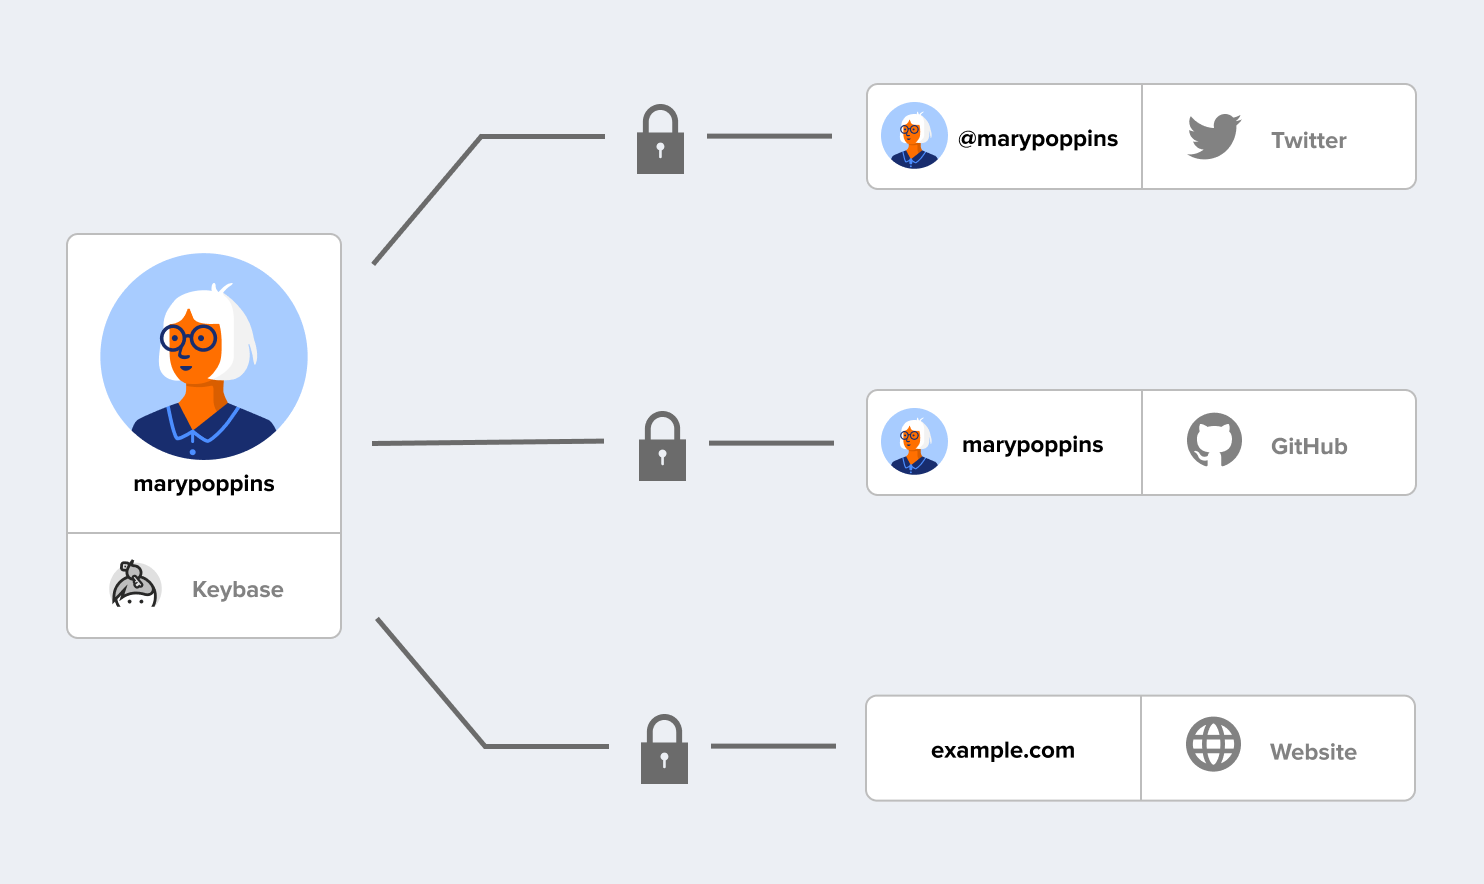
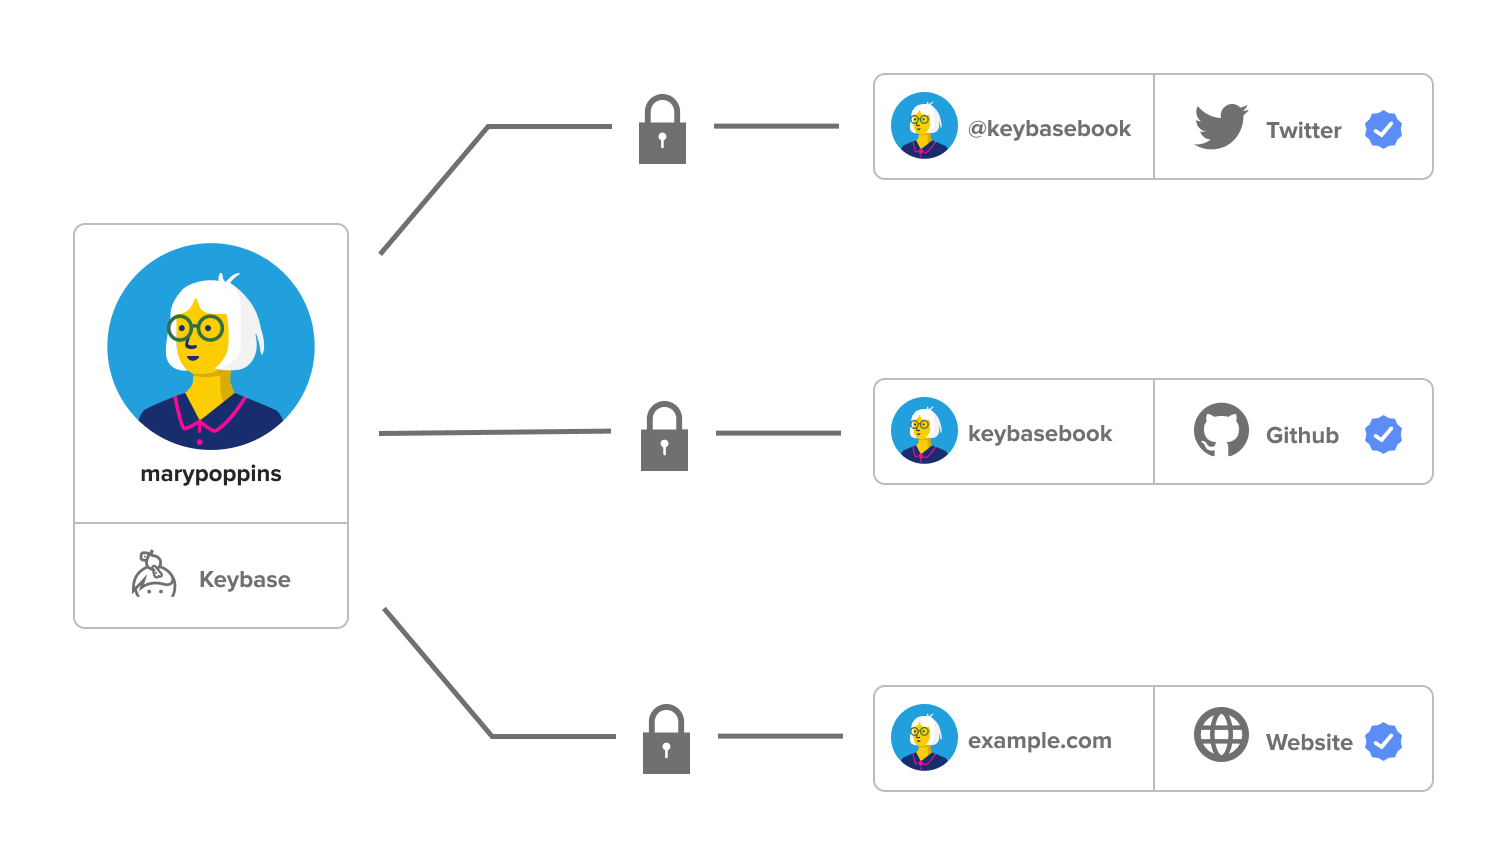
Adding new and updated diagrams

diff --git a/01-account/00-index.md b/01-account/00-index.md
@@ -2,24 +2,26 @@
 {% set section_subtitle = "Keybase accounts are trustworthy and secure. Learn how." %}
 
 # Your Keybase Account
-TL;DR Public-key cryptography makes your Keybase account trustworthy and secure. Installing Keybase on your computer or device, adding more devices and paper keys, adding proofs, and following all make your Keybase account more trustworthy and secure. 
+TL;DR Public-key cryptography makes your Keybase account trustworthy and secure. Installing Keybase on your computer or device, adding more devices and paper keys, adding proofs, and following all make your Keybase account more trustworthy and secure.
 
-Your Keybase account and everything you store or share through it in [Chat](/chat), [Files](files), [Teams](/teams), [Sites](/sites), [Wallet](/wallet), and [Git](/git) are all protected by encryption. 
+Your Keybase account and everything you store or share through it in [Chat](/chat), [Files](files), [Teams](/teams), [Sites](/sites), [Wallet](/wallet), and [Git](/git) are all protected by encryption.
 
-When you create your Keybase account, it’s linked to your [devices](account/devices). You further protect your account with [proofs](account/proofs) and [following](account/following). All of these actions are backed by public-key cryptography. 
+When you create your Keybase account, it’s linked to your [devices](account/devices). You further protect your account with [proofs](account/proofs) and [following](account/following). All of these actions are backed by public-key cryptography.
 
 You can learn more about how public-key cryptography works in [Security](/security).
 
-The gist is that your contacts can be sure your Keybase account belongs to you and that only you can access it. No phishing, spoofing, or scamming around here. 
+The gist is that your contacts can be sure your Keybase account belongs to you and that only you can access it. No phishing, spoofing, or scamming around here.
 
 #### Devices, proofs, and following help make your Keybase account trustworthy and secure.
-Lots of other apps only require a username and password to create and protect an account. Your username theoretically lets others know that an account belongs to you. And your password theoretically allows only you to access it. 
+Lots of other apps only require a username and password to create and protect an account. Your username theoretically lets others know that an account belongs to you. And your password theoretically allows only you to access it.
 
 But with just a username and password, accounts can be hacked, phished, and otherwise compromised. They’re not totally trustworthy and secure. In best-case scenarios, you can use two-factor authentication for more security but it’s still not perfect.
 
-Your contacts can trust your Keybase account because, instead of being protected by just a password, it’s cryptographically linked to your [devices](account/devices). Your account can only be accessed through your devices. So long as only you have access to your devices, only you can access your account. 
+![](/img/account-passwordsvskb.png)
 
-You do create a username to help let others know an account belongs to you. But you further confirm who you are with  [proofs](account/proofs), which link your Keybase account to your other online accounts. 
+Your contacts can trust your Keybase account because, instead of being protected by just a password, it’s cryptographically linked to your [devices](account/devices). Your account can only be accessed through your devices. So long as only you have access to your devices, only you can access your account.
+
+You do create a username to help let others know an account belongs to you. But you further confirm who you are with  [proofs](account/proofs), which link your Keybase account to your other online accounts.
 
 [Following](account/following) provides a public record that also confirms that you are who you say you are. Proofs and following are both public actions. And, as the name “proof” implies, these actions are also provable. Your contacts don’t have to trust that you’re you just because you say you are; they can see for themselves.
 
@@ -28,13 +30,13 @@ Anyone can check your proofs; Keybase regularly does as well. If anything change
 ## Usernames
 Tip: Before you create your account, give your username some thought. Everyone on the internet can see it.
 
-#### Your username is public and can’t be changed. 
-Choosing your username is the first action of many that you’ll take to help establish [your account](/account) on Keybase. These actions are part of a public record that helps secure your account and confirm that you are who you say you are. Changing your username has the potential to undo this. 
+#### Your username is public and can’t be changed.
+Choosing your username is the first action of many that you’ll take to help establish [your account](/account) on Keybase. These actions are part of a public record that helps secure your account and confirm that you are who you say you are. Changing your username has the potential to undo this.
 
 We know there are lots of reasons why people may need to change their usernames. And there are solutions we could implement to help people do so. But they’re complicated and, unfortunately, not something we can work on right now. In the meantime, you can learn more about this issue [on GitHub](https://github.com/keybase/keybase-issues/issues/2842#issuecomment-283706335).
 
 #### Usernames must be lowercase letters and numbers only, with no spaces.
-This format helps keep Keybase accounts secure because it makes it hard for tricksters to use visually similar names to impersonate people. 
+This format helps keep Keybase accounts secure because it makes it hard for tricksters to use visually similar names to impersonate people.
 
 For example, if uppercase letters were allowed someone could create the account Isteele (with a capital “i”) and pretend to be mlsteele (with a lowercase “L”). Spaces are not allowed for the same reason. The difference between “karen m” and “karen  m” is too subtle.
 
@@ -42,12 +44,12 @@ For example, if uppercase letters were allowed someone could create the account 
 If undeleting were allowed, it would be hard to be sure that the person undeleting is the same person who deleted the account. If you’ve gone to the trouble of deleting your account, we don’t want to give that username to anyone who asks for it.
 
 
-## Devices 
+## Devices
 TL;DR: You can think of your devices and paper keys as keys to your account. You can only access your account through your devices. Paper keys provide backup access to your account in case you lose your devices.
 
 Tip: Add multiple devices and paper keys to your account to ensure its security.
 
-When you create your Keybase account, Keybase creates a key pair for your account and the device—your phone or computer—that you sign up with. 
+When you create your Keybase account, Keybase creates a key pair for your account and the device—your phone or computer—that you sign up with.
 
 The public key is uploaded to Keybase’s servers and is publicly available. The private key lives only on your device. This means that no one else can access your account—or anything shared through it—without having your device (not even Keybase).
 
@@ -55,15 +57,15 @@ You can and should add more devices and paper keys to your account so you don’
 
 When you add a new device or paper key, your existing device vouches for the new one. All your devices and paper keys are cryptographically linked. And each additional device or paper key you add to your account also gets a key pair.  
 
-So, no one can compromise your account without having all of your devices and paper keys. This guarantees that only you have access to your account. 
+So, no one can compromise your account without having all of your devices and paper keys. This guarantees that only you have access to your account.
 
-### Adding devices 
-Install Keybase on your other devices so that you don’t lose access to your account if you lose access to a device. 
+### Adding devices
+Install Keybase on your other devices so that you don’t lose access to your account if you lose access to a device.
 
 #### Device names are public and can’t be changed.
-When you add a device, you’ll have to name it. Device names are visible to everyone on the internet and can’t be changed. Choose carefully. 
+When you add a device, you’ll have to name it. Device names are visible to everyone on the internet and can’t be changed. Choose carefully.
 
-Like your username, devices names are part of a public record that helps secure your account and confirm that you are who you say you are. Changing device names has the potential to undo this. 
+Like your username, devices names are part of a public record that helps secure your account and confirm that you are who you say you are. Changing device names has the potential to undo this.
 
 ![](/img/kb-one-device.png)
 
@@ -75,14 +77,14 @@ Like your username, devices names are part of a public record that helps secure 
 ![](/img/kb-two-devices.png)
 
 ### Revoking devices
-If you lose or replace a device, you should revoke it. Revoking removes the device from your account. 
+If you lose or replace a device, you should revoke it. Revoking removes the device from your account.
 
-Revoking lost or old devices helps ensure that only you can access your account. Your account cannot be accessed through revoked devices. 
+Revoking lost or old devices helps ensure that only you can access your account. Your account cannot be accessed through revoked devices.
 
-Revoked devices still publicly appear on your account but are marked as revoked. 
+Revoked devices still publicly appear on your account but are marked as revoked.
 
-### Adding paper keys 
-Add paper keys so that you can access your account even if (worst-case scenario) you lose all of your devices. 
+### Adding paper keys
+Add paper keys so that you can access your account even if (worst-case scenario) you lose all of your devices.
 
 ![](/img/kb-three-devices.png)
 
@@ -96,17 +98,20 @@ The best way to let others know that your Keybase account belongs to you is to t
 
 Proofs link your Keybase account to your other online accounts. Generally, proofs help people trust that you are really you on Keybase. Some people may already know you as you through your other accounts. But proofs are public so Keybase can (and does) check them, but importantly, anyone can. Publicly proving that you are who you say you are is an important part of what makes Keybase accounts so secure and trustworthy.
 
-If a proof is changed, indicating that your Keybase or other social accounts may have been compromised, Keybase will automatically warn the people you interact with. 
+If a proof is changed, indicating that your Keybase or other social accounts may have been compromised, Keybase will automatically warn the people you interact with.
 
 {#illo: Screenshot of proofs on Keybase overlaid with the proof (i.e. the tweet that the proof links to) #}
 
 ### Adding proofs
 You can add proofs for your personal website and social accounts on Twitter, GitHub, Reddit, and Hacker News. But your social accounts must be public for them to work as proofs.
 
-![](/img/kb-one-account.png)
-{# update this illo to 1: include a screenshot of Mary Poppins’s tweet to help indicate that the tweet itself must be public/visible/not deleted and 2: indicate that the tweet confirms the proof with something like a checkmark #}
+![](/img/kb-proof-twitter.png)
 
 For example, if you use your Twitter account as a proof, Keybase will give you a specific phrase to tweet that includes your Keybase username. For the proof to work, you must tweet the phrase exactly as Keybase gives it to you. The tweet must be public and you can’t delete it.
+
+![](/img/kb-proof-github.png)
+
+![](/img/kb-proof-website.png)
 
 Keeping proofs public lets Keybase—and anyone else—check them. Everyone can be sure that you are you.
 
@@ -116,35 +121,35 @@ Keeping proofs public lets Keybase—and anyone else—check them. Everyone can 
 ## Following
 TL;DR Following helps keep Keybase accounts secure. It allows you and those you interact with to be notified quickly if something on an account changes, indicating that it may be compromised and isn’t trustworthy.
 
-Tip: Follow people on Keybase to help make your account and theirs more trustworthy. 
- 
+Tip: Follow people on Keybase to help make your account and theirs more trustworthy.
+
 Following helps confirm that people are who they say they are on Keybase. But it doesn’t necessarily indicate a relationship. More importantly, following helps provide reassurance that accounts are trustworthy and secure.
 
 #### Follow people you interact with.
-You can and definitely should follow people you know and interact with on Keybase. But following helps keep accounts secure and trustworthy even if you don’t know someone you follow or someone who follows you. 
+You can and definitely should follow people you know and interact with on Keybase. But following helps keep accounts secure and trustworthy even if you don’t know someone you follow or someone who follows you.
 
-For example, let’s say you follow Mary Poppins on Keybase. You probably don’t know her and she probably doesn’t know you (if that’s not true, lucky you). By following her, you’re essentially documenting her Keybase account, including all her proofs and devices. This documentation is a time-stamped public record that can be checked by anyone else on Keybase. It’s also automatically checked by your computer or device every time you share messages or files with Ms. Poppins. And if anything about her account changes, you—and everyone else who follows her—will be notified when you attempt to interact with her on Keybase again. 
+For example, let’s say you follow Mary Poppins on Keybase. You probably don’t know her and she probably doesn’t know you (if that’s not true, lucky you). By following her, you’re essentially documenting her Keybase account, including all her proofs and devices. This documentation is a time-stamped public record that can be checked by anyone else on Keybase. It’s also automatically checked by your computer or device every time you share messages or files with Ms. Poppins. And if anything about her account changes, you—and everyone else who follows her—will be notified when you attempt to interact with her on Keybase again.
 
-#### More followers provide more security. 
-But if you don’t know Ms. Poppins, you might not interact with her and get notified that her account has changed. This is where safety in numbers kicks in. 
+#### More followers provide more security.
+But if you don’t know Ms. Poppins, you might not interact with her and get notified that her account has changed. This is where safety in numbers kicks in.
 
-The more followers Mary Poppins has, the more likely that *someone* will attempt to interact with her on Keybase, be notified about the change, and reach out to her over other channels. Then she can confirm that she made the change or recover her account if it’s been hacked. This helps gives both you and Ms. Poppins more confidence about the safety and trustworthiness of her account. 
+The more followers Mary Poppins has, the more likely that *someone* will attempt to interact with her on Keybase, be notified about the change, and reach out to her over other channels. Then she can confirm that she made the change or recover her account if it’s been hacked. This helps gives both you and Ms. Poppins more confidence about the safety and trustworthiness of her account.
 
-And even if no one’s interacting with Ms. Poppins on Keybase, you get some confidence knowing that for every follower she has, a public record of who she is (according to her devices and proofs) has been added to a giant, public Keybase database. 
-Someone might be able to fake one or even two of these records so they look the same, but it’d be virtually impossible to fake dozens or thousands. 
+And even if no one’s interacting with Ms. Poppins on Keybase, you get some confidence knowing that for every follower she has, a public record of who she is (according to her devices and proofs) has been added to a giant, public Keybase database.
+Someone might be able to fake one or even two of these records so they look the same, but it’d be virtually impossible to fake dozens or thousands.
 
 #### Older followers provide more security than newer ones.
 Along the same lines, the older a follower is, the more security it provides. Remember that following someone creates a time-stamped public record of who they are on Keybase (according to their proofs and devices). So, if you followed Ms. Poppins way back in February 2014, your record helps confirm that her account hasn’t been hacked over the years between now and then. If someone had hacked her account, they’d have to maintain control of her computer, other device(s), and proofs over that whole period of time.
 
 So, as long as someone’s account hasn’t been hacked the day you follow them (which would be kinda wild), you can be pretty confident they are who they say they are on Keybase. Likewise, your own followers help guarantee to your contacts—and better, to future contacts—that your Keybase account is controlled by you.
 
-#### Follow soon and follow often. 
+#### Follow soon and follow often.
 If you keep (ahem) *following* this logic, it’s easy to see that an older Keybase account is more secure and trustworthy than a newer Keybase account. And, older followers are more valuable than new followers. So, if you haven’t already, install the app, set up your account, and start following your contacts.
 
 This is a pretty simplified version of how following works. You can dig into more details in our [docs](https://keybase.io/docs/server_security/following) and on [Github](https://github.com/keybase/keybase-issues/issues/100). (Note: following was previously called tracking.)
 
 ### Blocking followers
-While even followers you don’t know help keep your account trustworthy, you can block them. 
+While even followers you don’t know help keep your account trustworthy, you can block them.
 
 When you block someone, you can remove them from your public list of followers. You won’t see them and their account will not be publicly associated with yours. They also won’t be able to chat with you or add you to a team.
 

diff --git a/04-teams/00-index.md b/04-teams/00-index.md
@@ -6,7 +6,7 @@ Use Teams to work, connect, organize. A team on Keybase is simply a group of peo
 
 Teams can [chat](/chat), use [files](/files), and [collaborate on Git](/Git).
 
-Like everything else on Keybase, your team chats, files, and Git are end-to-end encrypted. What you and your team share, store, and commit stays between you and your team. 
+Like everything else on Keybase, your team chats, files, and Git are end-to-end encrypted. What you and your team share, store, and commit stays between you and your team.
 
 Likewise, person-to-person interactions remain private. Team admins or owners can’t access individual chats between team members or any other interactions they’re not explicitly a part of. No snooping—anywhere, ever—on Keybase.
 
@@ -19,7 +19,7 @@ Before you create a team, there are a few things you should know:
 ### Adding and removing people
 You can create a team from scratch. Or if your team’s on Slack, you can [import it into Keybase](https://keybase.io/slack-importer/).
 
-Adding people by Keybase username is the quickest way to create a team. If you add people by their social handle, email, or phone numbers, they’ll need to create a Keybase account if they don’t already have one. 
+Adding people by Keybase username is the quickest way to create a team. If you add people by their social handle, email, or phone numbers, they’ll need to create a Keybase account if they don’t already have one.
 
 As you add people to a team, they’re announced in the team chat. All new team members can search and read the entire team chat history, except for exploding messages sent before they joined.
 
@@ -28,45 +28,7 @@ If you remove a team member, they lose access to all team chats and folders. Rem
 #### Roles and permissions
 When you add someone to a team, you’ll assign them a role that gives them specific permissions. In most cases, most people should be writers, unless you’re managing a community. Then, you might want your team members to be readers. You can always change roles later.
 
-**Owners:**
-* Can create chat channels
-* Can create subteams
-* Can add and remove team members
-* Can manage team members’ roles
-* Can write and read chat messages 
-* Can view, edit, and save files
-* Can delete team
-* Can add bots
-
-**Admins:**
-* Can create chat channels
-* Can create subteams
-* Can add and remove members
-* Can manage team members’ roles
-* Can write and read chat messages
-* Can view, edit, and save files
-* *Cannot* delete the team
-* Can add bots
-
-**Writers:**
-* Can write and read chat messages
-* Can view, edit, and save files
-* Can create chat channels
-* *Cannot* create subteams
-* *Cannot* add and remove members
-* *Cannot* manage team members’ roles
-* *Cannot* delete the team
-* *Cannot* add bots
-
-**Readers:**
-* Can write and read chat messages
-* Can only view files
-* *Cannot* create chat channels
-* *Cannot* create subteams
-* *Cannot* add and remove members
-* *Cannot* manage team members’ roles
-* *Cannot* delete team
-* *Cannot* add bots
+![](/img/teams-accessmatrix.png)
 
 ### Leaving a team
 If you leave a team, any messages and files you shared remain with the team, but you lose access to them. You can only rejoin a team if you are invited by an admin or owner.
@@ -77,7 +39,7 @@ A team can only be deleted by the team owner. A team can only be deleted if ther
 ## Team features
 Teams can be what we call big teams, subteams, or open teams. Each has different features and abilities.
 
-### Big teams 
+### Big teams
 #### Organize chats in channels.
 If you create channels for a chat, your team becomes a big team. It doesn’t matter how many people are in it; even two people can be a big team.
 
@@ -105,35 +67,34 @@ If you know of an open team you’d like to join, for example `keybasefriends` o
 
 ## Chat for Teams
 Chat for Teams works pretty much the same way it does for individuals. Learn more in [Chat](/chat).
- 
+
 A chat is automatically created for each team. Team members with the right permissions can organize chats with channels and manage chat privacy.
 
-### Channels 
+### Channels
 Everyone on a team (except readers) can create channels to organize team chats. If you add a channel to a team chat, your team becomes a big team (and the chat moves to the lower part of your inbox).
 
-Everyone on a team can read messages and files shared in any team channel. 
+Everyone on a team can read messages and files shared in any team channel.
 
 If you delete a chat channel, all messages will be lost and gone forever.
 
 ### Privacy
-Everyone on a team can search and read all of the messages and files shared in team chats. But when team members chat directly with each other, their messages remain private. Team owners or admins can’t access private chats. 
+Everyone on a team can search and read all of the messages and files shared in team chats. But when team members chat directly with each other, their messages remain private. Team owners or admins can’t access private chats.
 
-By default, your entire chat history is saved and searchable forever. But team owners can manage how long messages are saved. Messages can be auto-deleted never or at set intervals as short as 30 seconds and as long as 365 days. 
+By default, your entire chat history is saved and searchable forever. But team owners can manage how long messages are saved. Messages can be auto-deleted never or at set intervals as short as 30 seconds and as long as 365 days.
 
 To keep chats or files private to specific team members, create a subteam.
 
 ## Files for Teams
 Files for Teams on Keybase works pretty much the same way it works for individuals. Learn more in [Files](/files).
 
-Teams and subteams can store up to 100 GB of documents, photos, and videos. Anything you store or share with a team on Keybase is automatically end-to-end encrypted. Only the people on a team can access team files. But, everyone on a team can access every file. 
+Teams and subteams can store up to 100 GB of documents, photos, and videos. Anything you store or share with a team on Keybase is automatically end-to-end encrypted. Only the people on a team can access team files. But, everyone on a team can access every file.
 
-To make files private to specific team members, create a subteam. 
- 
+To make files private to specific team members, create a subteam.
+
 
 ## Git for Teams
 Git for Teams on Keybase works pretty much the same way it works for individuals. Learn more in [Git](/git).
 
-Git repositories on Keybase are free, encrypted, authenticated, and private. They’re especially useful for sharing secret or private content within teams. Repositories shared with teams can be viewed in the Keybase app. 
+Git repositories on Keybase are free, encrypted, authenticated, and private. They’re especially useful for sharing secret or private content within teams. Repositories shared with teams can be viewed in the Keybase app.
 
 To see a demo, ask to join the team `keybasefriends`.
-
